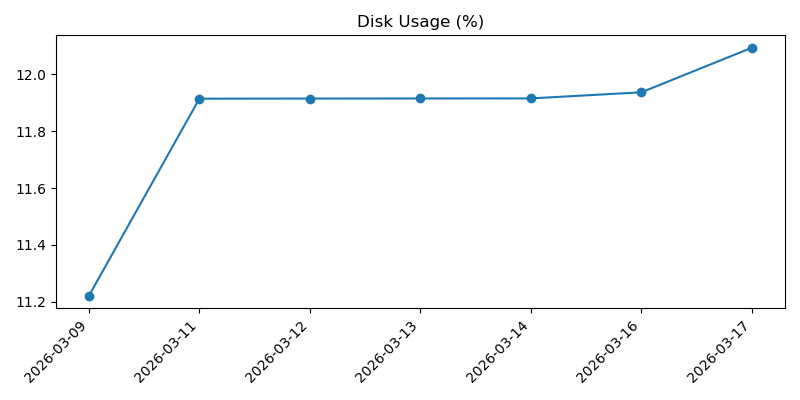
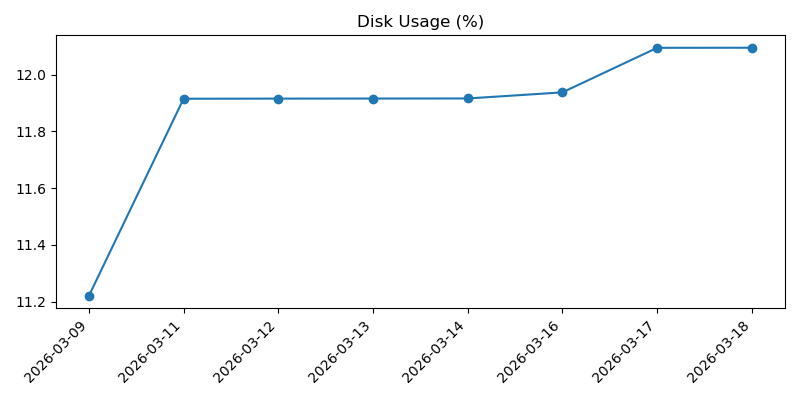
Record daily machine check

diff --git a/2026-03.md b/2026-03.md
@@ -237,3 +237,37 @@
 - Overall: Good
 - Warning: None
 
+## 2026-03-18 16:47:02
+
+### Machine
+- Uptime: up 1 week, 1 day, 23 hours, 8 minutes
+- CPU load (1m, 5m, 15m): 0.00, 0.00, 0.00
+- RAM used: 197 MB / 921 MB (21.4%)
+- Disk used (/): 3.5 GB / 28.8 GB (12.1%)
+- Free disk space (/): 24.1 GB
+- CPU temp: 40.8°C
+- Voltage / throttling: OK
+
+### Reachability
+- Internet check (1.1.1.1): Reachable (3.3 ms)
+
+### Weather
+- Madrid:
+  - Condition: Nubes altas
+  - Max temp: 20°C
+  - Min temp: 7°C
+  - Feels like: 14°C
+  - Chance of rain: 0%
+  - Warnings: None reported
+- Barcelona:
+  - Condition: Nuboso con lluvia escasa
+  - Max temp: 17°C
+  - Min temp: 10°C
+  - Feels like: 13°C
+  - Chance of rain: 80%
+  - Warnings: None reported
+
+### Health
+- Overall: Good
+- Warning: None
+
